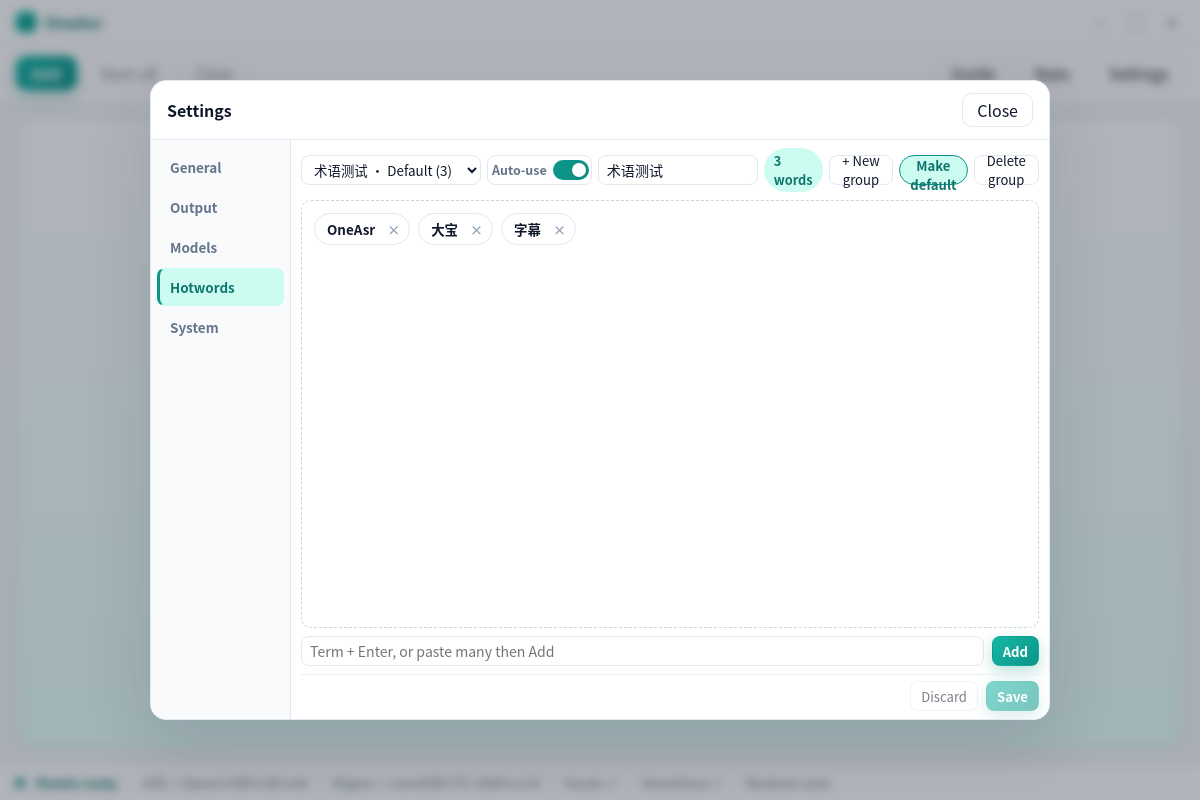
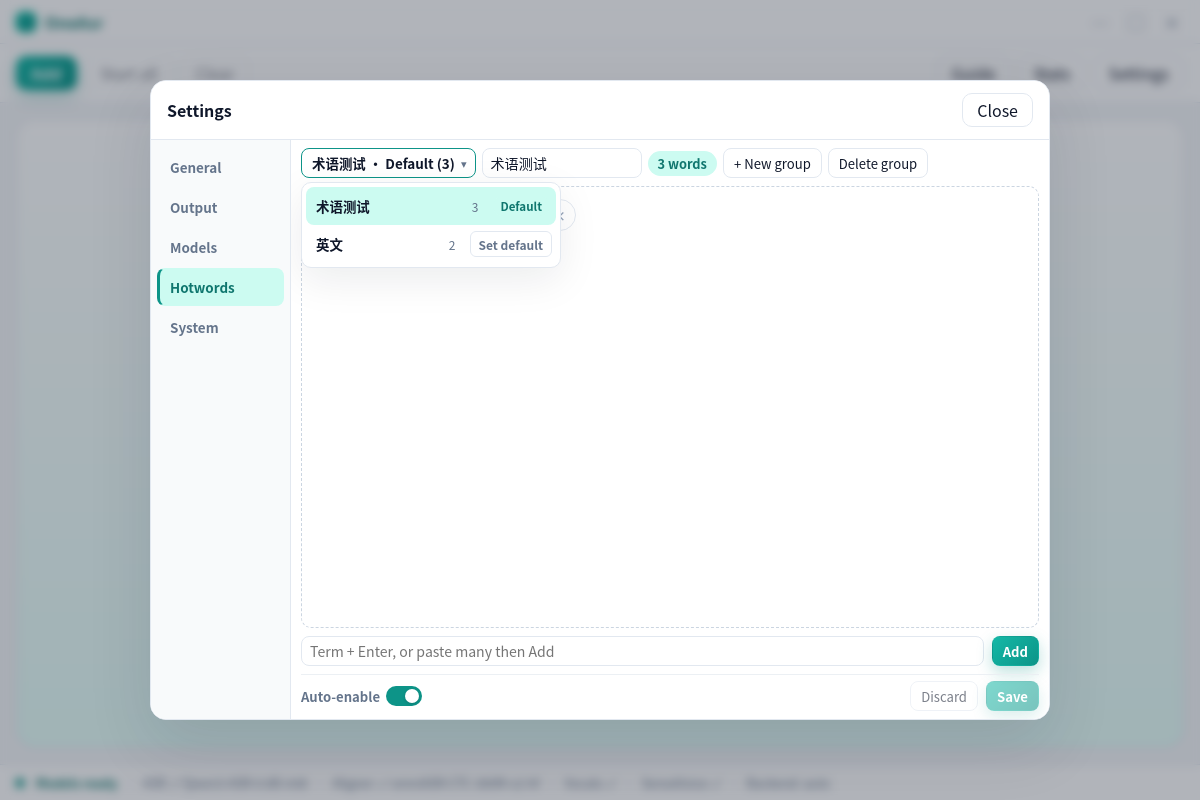
fix(electron): hotword default in dropdown, auto-enable in footer
Set default group inside the group menu (no top-bar 标为默认组 button);
move auto-enable toggle to the save bar as short「自动启用」label.

Changed region(s): [[0.2467, 0.1875, 0.8633, 0.3125], [0.2467, 0.8438, 0.3392, 0.9062]]

diff --git a/apps/electron/src/renderer/src/components/HotwordPanel.tsx b/apps/electron/src/renderer/src/components/HotwordPanel.tsx
@@ -1,5 +1,5 @@
 import { AnimatePresence, motion } from 'framer-motion'
-import { useEffect, useMemo, useState } from 'react'
+import { useEffect, useMemo, useRef, useState } from 'react'
 import { t, UiLang } from '../i18n'
 import type { HotwordGroup, HotwordStore } from '../../../shared/types'
 
@@ -44,10 +44,21 @@ export function HotwordEditor({
   const [addRaw, setAddRaw] = useState('')
   const [saving, setSaving] = useState(false)
   const [lastAdded, setLastAdded] = useState<number | null>(null)
+  const [groupMenuOpen, setGroupMenuOpen] = useState(false)
+  const groupMenuRef = useRef<HTMLDivElement>(null)
 
   useEffect(() => {
     onDirtyChange?.(dirty)
   }, [dirty, onDirtyChange])
+
+  useEffect(() => {
+    if (!groupMenuOpen) return
+    const onDoc = (e: MouseEvent) => {
+      if (!groupMenuRef.current?.contains(e.target as Node)) setGroupMenuOpen(false)
+    }
+    document.addEventListener('mousedown', onDoc)
+    return () => document.removeEventListener('mousedown', onDoc)
+  }, [groupMenuOpen])
 
   // Reset when store prop identity changes (after external save / reopen)
   useEffect(() => {
@@ -131,42 +142,72 @@ export function HotwordEditor({
     <div className={`hw-embed vertical ${compact ? 'compact' : ''}`}>
       {/* Top: compact group management */}
       <div className="hw-group-bar">
-        <select
-          className="hw-group-select"
-          value={group?.id || ''}
-          onChange={(e) => setSel(e.target.value)}
-          aria-label={s.groups}
-        >
-          {draft.groups.map((g) => {
-            const n = parseWords(g.words).length
-            const isDef = draft.default_group === g.id
-            const label = g.name.trim() || s.emptyGroup
-            return (
-              <option key={g.id} value={g.id}>
-                {label}
-                {isDef ? ` · ${s.isDefault}` : ''}
-                {` (${n})`}
-              </option>
-            )
-          })}
-        </select>
-        <div className="hw-default-toggle" title={s.defaultGroup}>
-          <span className="pref-label">{s.defaultGroupShort}</span>
+        <div className={`hw-group-menu${groupMenuOpen ? ' open' : ''}`} ref={groupMenuRef}>
           <button
             type="button"
-            className={`toggle ${draft.default_group_enabled ? 'on' : ''}`}
-            role="switch"
-            aria-checked={draft.default_group_enabled}
-            aria-label={s.defaultGroup}
-            disabled={!group}
-            onClick={() =>
-              touch({
-                ...draft,
-                default_group_enabled: !draft.default_group_enabled,
-                default_group: draft.default_group || group?.id || null
-              })
-            }
-          />
+            className="hw-group-trigger"
+            aria-haspopup="listbox"
+            aria-expanded={groupMenuOpen}
+            aria-label={s.groups}
+            onClick={() => setGroupMenuOpen((o) => !o)}
+          >
+            <span className="hw-group-trigger-label">
+              {group?.name.trim() || s.emptyGroup}
+              {group && draft.default_group === group.id ? ` · ${s.isDefault}` : ''}
+              {` (${words.length})`}
+            </span>
+            <span className="hw-group-caret" aria-hidden>
+              ▾
+            </span>
+          </button>
+          {groupMenuOpen && (
+            <ul className="hw-group-listbox" role="listbox">
+              {draft.groups.map((g) => {
+                const n = parseWords(g.words).length
+                const isDef = draft.default_group === g.id
+                const label = g.name.trim() || s.emptyGroup
+                const active = g.id === group?.id
+                return (
+                  <li
+                    key={g.id}
+                    className={`hw-group-option${active ? ' active' : ''}${isDef ? ' is-default' : ''}`}
+                    role="option"
+                    aria-selected={active}
+                  >
+                    <button
+                      type="button"
+                      className="hw-group-option-main"
+                      onClick={() => {
+                        setSel(g.id)
+                        setGroupMenuOpen(false)
+                      }}
+                    >
+                      <span className="hw-group-option-name">{label}</span>
+                      <span className="hw-group-option-meta">{n}</span>
+                    </button>
+                    {isDef ? (
+                      <span className="hw-group-default-badge">{s.isDefault}</span>
+                    ) : (
+                      <button
+                        type="button"
+                        className="hw-group-set-default"
+                        onClick={(e) => {
+                          e.stopPropagation()
+                          touch({
+                            ...draft,
+                            default_group: g.id,
+                            default_group_enabled: true
+                          })
+                        }}
+                      >
+                        {s.setDefault}
+                      </button>
+                    )}
+                  </li>
+                )
+              })}
+            </ul>
+          )}
         </div>
         <input
           className="text-input hw-name"
@@ -192,21 +233,6 @@ export function HotwordEditor({
           }}
         >
           + {s.addGroup}
-        </button>
-        <button
-          type="button"
-          className={`chip ${group && draft.default_group === group.id ? 'active' : ''}`}
-          disabled={!group}
-          onClick={() =>
-            group &&
-            touch({
-              ...draft,
-              default_group: group.id,
-              default_group_enabled: true
-            })
-          }
-        >
-          {s.setDefault}
         </button>
         <button
           type="button"
@@ -280,6 +306,24 @@ export function HotwordEditor({
       </div>
 
       <div className="hw-embed-foot">
+        <div className="hw-default-toggle" title={s.defaultGroup}>
+          <span className="pref-label">{s.defaultGroupShort}</span>
+          <button
+            type="button"
+            className={`toggle ${draft.default_group_enabled ? 'on' : ''}`}
+            role="switch"
+            aria-checked={draft.default_group_enabled}
+            aria-label={s.defaultGroup}
+            disabled={!group}
+            onClick={() =>
+              touch({
+                ...draft,
+                default_group_enabled: !draft.default_group_enabled,
+                default_group: draft.default_group || group?.id || null
+              })
+            }
+          />
+        </div>
         <span className="hint">{dirty ? s.unsaved : ''}</span>
         <button type="button" className="btn btn-ghost btn-sm" disabled={!dirty} onClick={discard}>
           {s.discard}

diff --git a/apps/electron/src/renderer/src/styles/app.css b/apps/electron/src/renderer/src/styles/app.css
@@ -678,21 +678,126 @@ select:focus, .text-input:focus, textarea.text-input:focus {
   flex-wrap: nowrap;
   flex-shrink: 0;
 }
-.hw-group-select {
+.hw-group-menu {
+  position: relative;
+  flex-shrink: 0;
+}
+.hw-group-trigger {
+  display: inline-flex;
+  align-items: center;
+  gap: 6px;
   height: 30px;
-  min-width: 120px;
-  max-width: 180px;
-  padding: 0 8px;
+  min-width: 140px;
+  max-width: 200px;
+  padding: 0 8px 0 10px;
   border-radius: 8px;
   border: 1px solid var(--line);
   background: #fff;
   font-size: 0.84rem;
   color: var(--text);
+  font-weight: 550;
 }
-.hw-group-select:focus {
+.hw-group-trigger:hover,
+.hw-group-menu.open .hw-group-trigger {
   border-color: var(--accent);
-  box-shadow: 0 0 0 3px var(--accent-soft);
-  outline: none;
+}
+.hw-group-trigger-label {
+  flex: 1;
+  min-width: 0;
+  overflow: hidden;
+  text-overflow: ellipsis;
+  white-space: nowrap;
+  text-align: left;
+}
+.hw-group-caret {
+  color: var(--muted);
+  font-size: 0.7rem;
+  flex-shrink: 0;
+}
+.hw-group-listbox {
+  position: absolute;
+  top: calc(100% + 4px);
+  left: 0;
+  z-index: 40;
+  min-width: 260px;
+  max-width: 360px;
+  margin: 0;
+  padding: 4px;
+  list-style: none;
+  background: #fff;
+  border: 1px solid var(--line);
+  border-radius: 10px;
+  box-shadow: var(--shadow);
+  max-height: 240px;
+  overflow: auto;
+}
+.hw-group-option {
+  display: flex;
+  align-items: center;
+  gap: 6px;
+  border-radius: 8px;
+  padding: 2px;
+}
+.hw-group-option:hover {
+  background: var(--row-hover);
+}
+.hw-group-option.active {
+  background: var(--accent-soft);
+}
+.hw-group-option-main {
+  flex: 1;
+  min-width: 0;
+  display: flex;
+  align-items: center;
+  gap: 8px;
+  text-align: left;
+  padding: 7px 8px;
+  border-radius: 6px;
+  color: var(--text);
+  font-size: 0.84rem;
+  font-weight: 550;
+  background: transparent;
+}
+.hw-group-option-name {
+  flex: 1;
+  min-width: 0;
+  overflow: hidden;
+  text-overflow: ellipsis;
+  white-space: nowrap;
+}
+.hw-group-option-meta {
+  color: var(--muted);
+  font-size: 0.75rem;
+  font-weight: 500;
+  flex-shrink: 0;
+}
+.hw-group-default-badge {
+  flex-shrink: 0;
+  font-size: 0.72rem;
+  font-weight: 700;
+  color: var(--logo);
+  background: var(--accent-soft);
+  padding: 2px 8px;
+  border-radius: 999px;
+  margin-right: 4px;
+}
+.hw-group-set-default {
+  flex-shrink: 0;
+  height: 26px;
+  padding: 0 8px;
+  margin-right: 2px;
+  border-radius: 6px;
+  border: 1px solid var(--line);
+  background: #fff;
+  color: var(--muted);
+  font-size: 0.75rem;
+  font-weight: 650;
+  white-space: nowrap;
+}
+.hw-group-set-default:hover {
+  border-color: var(--accent);
+  color: var(--logo);
+  background: var(--accent-mist);
 }
 .hw-group-bar .hw-name {
   flex: 1 1 auto;
@@ -708,13 +813,12 @@ select:focus, .text-input:focus, textarea.text-input:focus {
   gap: 6px;
   flex-shrink: 0;
   height: 30px;
-  padding: 0 2px 0 4px;
-  border-radius: 8px;
-  border: 1px solid var(--line);
-  background: #fff;
+  padding: 0;
+  border: none;
+  background: transparent;
 }
 .hw-default-toggle .pref-label {
-  font-size: 0.78rem;
+  font-size: 0.82rem;
   color: var(--muted);
   font-weight: 600;
   white-space: nowrap;
@@ -731,6 +835,9 @@ select:focus, .text-input:focus, textarea.text-input:focus {
 }
 .hw-default-toggle .toggle.on::after {
   transform: translateX(16px);
+}
+.hw-embed-foot .hw-default-toggle {
+  margin-right: 4px;
 }
 
 .hw-bottom {

diff --git a/apps/electron/src/main/index.ts b/apps/electron/src/main/index.ts
@@ -67,7 +67,14 @@ async function runAutoShots(win: BrowserWindow): Promise<void> {
         await win.webContents.executeJavaScript(
           `document.querySelector('[data-shot="settings-tab-hotwords"]')?.click()`
         )
+        await sleep(300)
+        await win.webContents.executeJavaScript(
+          `document.querySelector('.hw-group-trigger')?.click()`
+        )
         await capture(`${lang}-02d-settings-hotwords`)
+        await win.webContents.executeJavaScript(
+          `document.querySelector('.hw-group-trigger')?.click()`
+        )
         await win.webContents.executeJavaScript(
           `document.querySelector('[data-shot="settings-tab-compute"]')?.click()`
         )

diff --git a/apps/electron/src/renderer/src/i18n/index.ts b/apps/electron/src/renderer/src/i18n/index.ts
@@ -116,8 +116,8 @@ const zh = {
   addGroup: '新建组',
   deleteGroup: '删除本组',
   defaultGroup: '新任务默认启用',
-  defaultGroupShort: '新任务启用',
-  setDefault: '标为默认组',
+  defaultGroupShort: '自动启用',
+  setDefault: '设为默认',
   isDefault: '默认',
   wordCount: '词',
   groups: '词组',
@@ -255,8 +255,8 @@ const en: Dict = {
   addGroup: 'New group',
   deleteGroup: 'Delete group',
   defaultGroup: 'Default for new tasks',
-  defaultGroupShort: 'Auto-use',
-  setDefault: 'Make default',
+  defaultGroupShort: 'Auto-enable',
+  setDefault: 'Set default',
   isDefault: 'Default',
   wordCount: 'words',
   groups: 'Groups',
